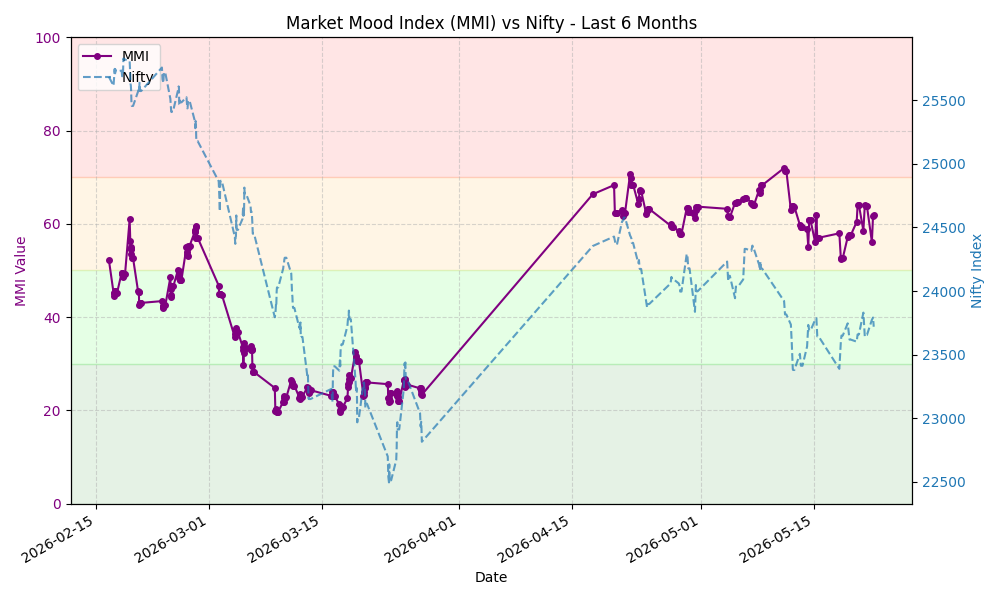
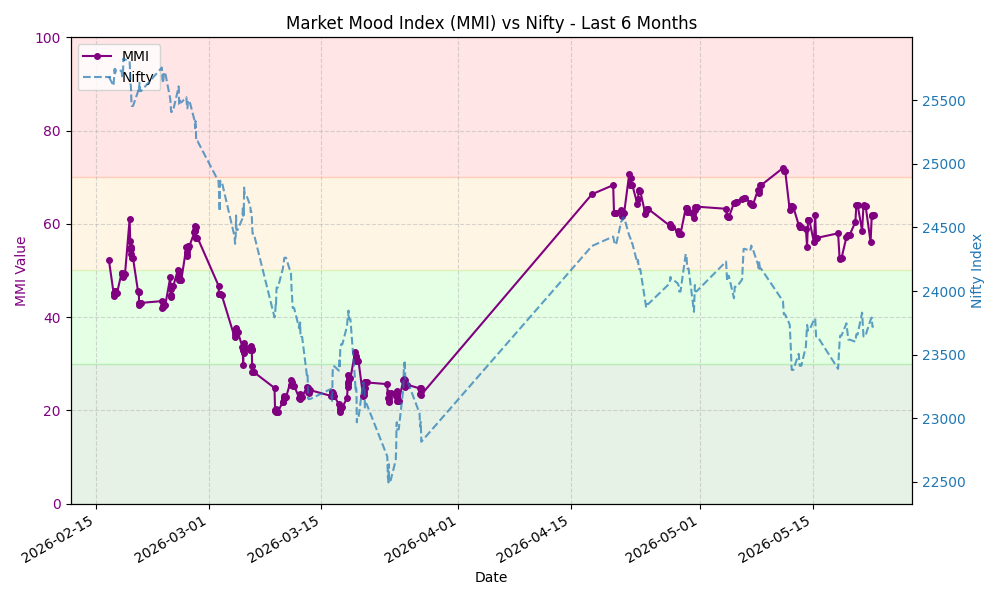
Update MMI data and chart

diff --git a/README.md b/README.md
@@ -8,7 +8,7 @@ This repository automatically fetches the MMI value, stores the history, and gen
 ## Latest MMI Value
 
 **61.88** - **Greed**
-<small>Last Updated: 2026-05-22 10:27 UTC</small>
+<small>Last Updated: 2026-05-22 14:20 UTC</small>
 
 ## MMI Trend (Last 30 Days)
 